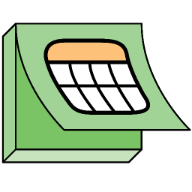
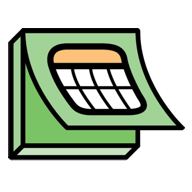
React helmet (#348)
* Updated all images

* Added React Helmet to update title and descriptions dynamically

* Added title changes to edit pages as well

diff --git a/client/src/app.js b/client/src/app.js
@@ -1,5 +1,6 @@
 import React, { useEffect, useState } from 'react';
 import { BrowserRouter, Route, Switch } from 'react-router-dom';
+import { Helmet } from 'react-helmet';
 import { createTheme, ThemeProvider } from '@material-ui/core';
 import Cookies from 'universal-cookie';
 import DayjsUtils from '@date-io/dayjs';
@@ -69,6 +70,25 @@ const App = () => {
 
     return (
         <ThemeProvider theme={theme}>
+            <Helmet>
+                <meta charset="utf-8" />
+                <link rel="icon" href="%PUBLIC_URL%/favicon.ico?v=3" />
+                <meta name="viewport" content="width=device-width, initial-scale=1" />
+                <meta name="theme-color" content="#00c853" />
+                <meta
+                    name="description"
+                    content="The TAMS Club Calendar is a fully contained event tracker, club/volunteering database, and general resource center. This is the unofficial club event calendar for the Texas Academy of Mathematics and Science!"
+                />
+                <meta property="og:title" content="TAMS Club Calendar" />
+                <meta property="og:type" content="website" />
+                <meta property="og:url" content="https://tams.club/" />
+                <meta property="og:image" content="%PUBLIC_URL%/social-cover.webp" />
+                <meta property="og:image:width" content="1200" />
+                <meta property="og:image:height" content="630" />
+                <link rel="apple-touch-icon" href="%PUBLIC_URL%/android-chrome-192x192.png" />
+                <link rel="manifest" href="%PUBLIC_URL%/manifest.json" />
+                <title>TAMS Club Calendar</title>
+            </Helmet>
             <CssBaseline />
             <MuiPickersUtilsProvider utils={DayjsUtils}>
                 <BrowserRouter>

diff --git a/client/src/components/volunteering/volunteering-display.js b/client/src/components/volunteering/volunteering-display.js
@@ -19,6 +19,7 @@ import Loading from '../shared/loading';
 import FilterList from './filter-list';
 import Paragraph from '../shared/paragraph';
 import AddButton from '../shared/add-button';
+import { Helmet } from 'react-helmet';
 
 const useStyles = makeStyles((theme) => ({
     root: {
@@ -112,7 +113,16 @@ const EventDisplay = (props) => {
                 )
             ) : (
                 <Container className={classes.root}>
-                    <AddButton color="secondary" label="Volunteering" path={`/edit/volunteering?id=${volunteering.id}`} edit />
+                    <Helmet>
+                        <title>{`${volunteering.name} | Volunteering - TAMS Club Calendar`}</title>
+                        <meta name="description" content={volunteering.description} />
+                    </Helmet>
+                    <AddButton
+                        color="secondary"
+                        label="Volunteering"
+                        path={`/edit/volunteering?id=${volunteering.id}`}
+                        edit
+                    />
                     <Card>
                         <CardContent>
                             <Box className={classes.container}>

diff --git a/client/public/index.html b/client/public/index.html
@@ -2,20 +2,6 @@
 <html lang="en">
 
     <head>
-        <meta charset="utf-8" />
-        <link rel="icon" href="%PUBLIC_URL%/favicon.ico?v=2" />
-        <meta name="viewport" content="width=device-width, initial-scale=1" />
-        <meta name="theme-color" content="#00CD2D" />
-        <meta name="description"
-            content="This is a website that lists all TAMS club events in a simple calendar, as well as a resource for student life info!" />
-        <meta property="og:title" content="TAMS Club Calendar" />
-        <meta property="og:type" content="website" />
-        <meta property="og:url" content="https://tams.club/" />
-        <meta property="og:image" content="https://tams.club/android-chrome-512x512.png" />
-        <link rel="apple-touch-icon" href="%PUBLIC_URL%/apple-touch-icon.png" />
-        <link rel="manifest" href="%PUBLIC_URL%/manifest.json" />
-        <title>TAMS Club Calendar</title>
-
         <link rel="preconnect" href="https://fonts.gstatic.com">
         <link
             href="https://fonts.googleapis.com/css2?family=Roboto:wght@100;300;400;500;700&family=Bubblegum+Sans&family=Roboto+Mono:wght@500&display=swap"

diff --git a/client/src/components/home/event-display.js b/client/src/components/home/event-display.js
@@ -1,6 +1,6 @@
 import React, { useEffect, useState } from 'react';
 import { useHistory } from 'react-router';
-import { useSelector } from 'react-redux';
+import { Helmet } from 'react-helmet';
 import { makeStyles } from '@material-ui/core/styles';
 import { capitalize } from '@material-ui/core';
 import { darkSwitch, darkSwitchGrey, formatEventDate, formatEventTime, getParams } from '../../functions/util';
@@ -122,6 +122,10 @@ const EventDisplay = (props) => {
                 )
             ) : (
                 <Container className={classes.root}>
+                    <Helmet>
+                        <title>{`${event.name} | Events - TAMS Club Calendar`}</title>
+                        <meta name="description" content={event.description} />
+                    </Helmet>
                     <AddButton color="secondary" label="Event" path={`/edit/events?id=${event.id}`} edit />
                     <Card>
                         <CardContent>

diff --git a/client/src/components/clubs/club-display.js b/client/src/components/clubs/club-display.js
@@ -1,6 +1,7 @@
 import React, { useEffect, useState } from 'react';
 import { useHistory } from 'react-router';
 import { useSelector } from 'react-redux';
+import { Helmet } from 'react-helmet';
 import { makeStyles } from '@material-ui/core';
 import { getSavedClubList } from '../../redux/selectors';
 import { getClub } from '../../functions/api';
@@ -148,6 +149,10 @@ const ClubDisplay = (props) => {
                 )
             ) : (
                 <Container className={classes.root}>
+                    <Helmet>
+                        <title>{`${club.name} | Clubs - TAMS Club Calendar`}</title>
+                        <meta name="description" content={club.description} />
+                    </Helmet>
                     <AddButton color="secondary" label="Club" path={`/edit/clubs?id=${club.id}`} edit />
                     <Card>
                         <CardMedia className={classes.imageWrapper}>

diff --git a/client/src/components/home/reservation/reservation-display.js b/client/src/components/home/reservation/reservation-display.js
@@ -1,5 +1,6 @@
 import React, { useEffect, useState } from 'react';
 import { useHistory } from 'react-router';
+import { Helmet } from 'react-helmet';
 import { makeStyles } from '@material-ui/core/styles';
 import dayjs from 'dayjs';
 import { darkSwitchGrey, formatEventDate, formatEventTime, getParams } from '../../../functions/util';
@@ -120,6 +121,10 @@ const ReservationDisplay = () => {
                 )
             ) : (
                 <Container className={classes.root}>
+                    <Helmet>
+                        <title>{`${reservation.name} | Reservations - TAMS Club Calendar`}</title>
+                        <meta name="description" content={reservation.description} />
+                    </Helmet>
                     <AddButton
                         color="secondary"
                         label={reservation.eventId ? 'Event' : 'Reservation'}

diff --git a/client/src/components/edit/edit-volunteering.js b/client/src/components/edit/edit-volunteering.js
@@ -1,6 +1,7 @@
 import React, { useEffect, useState } from 'react';
 import { useDispatch } from 'react-redux';
 import { makeStyles } from '@material-ui/core';
+import { Helmet } from 'react-helmet';
 import { useForm } from 'react-hook-form';
 import Cookies from 'universal-cookie';
 import { openPopup } from '../../redux/actions';
@@ -117,6 +118,9 @@ const EditVolunteering = () => {
         <Loading flat />
     ) : (
         <React.Fragment>
+            <Helmet>
+                <title>{`${id ? 'Edit' : 'Add'} Volunteering - TAMS Club Calendar`}</title>
+            </Helmet>
             <UploadBackdrop open={backdrop} />
             <Typography variant="h1" className={classes.title}>
                 {id ? 'Edit Volunteering' : 'Add Volunteering'}

diff --git a/client/src/components/edit/edit-reservations.js b/client/src/components/edit/edit-reservations.js
@@ -1,6 +1,7 @@
 import React, { useEffect, useState } from 'react';
 import { useDispatch } from 'react-redux';
 import { makeStyles } from '@material-ui/core';
+import { Helmet } from 'react-helmet';
 import { useForm } from 'react-hook-form';
 import dayjs from 'dayjs';
 import isSameOrBefore from 'dayjs/plugin/isSameOrBefore';
@@ -211,6 +212,9 @@ const EditReservations = () => {
         <Loading flat />
     ) : (
         <React.Fragment>
+            <Helmet>
+                <title>{`${id ? 'Edit' : 'Add'} Reservation - TAMS Club Calendar`}</title>
+            </Helmet>
             <UploadBackdrop open={backdrop} />
             <Typography variant="h1" className={classes.title}>
                 {id ? 'Edit Reservation' : 'Add Reservation'}

diff --git a/client/src/components/edit/edit-clubs.js b/client/src/components/edit/edit-clubs.js
@@ -1,6 +1,7 @@
 import React, { useEffect, useState } from 'react';
 import { useDispatch } from 'react-redux';
 import { makeStyles } from '@material-ui/core';
+import { Helmet } from 'react-helmet';
 import { useForm } from 'react-hook-form';
 import Cookies from 'universal-cookie';
 import { openPopup } from '../../redux/actions';
@@ -151,6 +152,9 @@ const EditClubs = () => {
         <Loading flat />
     ) : (
         <React.Fragment>
+            <Helmet>
+                <title>{`${id ? 'Edit' : 'Add'} Club - TAMS Club Calendar`}</title>
+            </Helmet>
             <UploadBackdrop open={backdrop} />
             <Typography variant="h1" className={classes.title}>
                 {id ? 'Edit Club' : 'Add Club'}

diff --git a/client/src/components/edit/edit.js b/client/src/components/edit/edit.js
@@ -1,5 +1,6 @@
 import React, { useEffect } from 'react';
 import { BrowserRouter, Route, Switch, useLocation } from 'react-router-dom';
+import { Helmet } from 'react-helmet';
 import { makeStyles } from '@material-ui/core';
 import Cookies from 'universal-cookie';
 import { redirect } from '../../functions/util';
@@ -50,6 +51,9 @@ const Edit = () => {
         <PageWrapper className={classes.root}>
             <Container>
                 <Paper className={classes.paper}>
+                    <Helmet>
+                        <title>Edit Resources - TAMS Club Calendar</title>
+                    </Helmet>
                     <EditLogin />
                     <BrowserRouter>
                         <Switch>

diff --git a/client/src/components/edit/edit-events.js b/client/src/components/edit/edit-events.js
@@ -1,6 +1,7 @@
 import React, { useEffect, useState } from 'react';
 import { useDispatch } from 'react-redux';
 import { makeStyles } from '@material-ui/core';
+import { Helmet } from 'react-helmet';
 import { useForm } from 'react-hook-form';
 import Cookies from 'universal-cookie';
 import dayjs from 'dayjs';
@@ -166,6 +167,9 @@ const EditEvents = () => {
         <Loading flat />
     ) : (
         <React.Fragment>
+            <Helmet>
+                <title>{`${id ? 'Edit' : 'Add'} Event - TAMS Club Calendar`}</title>
+            </Helmet>
             <UploadBackdrop open={backdrop} />
             <Typography variant="h1" className={classes.title}>
                 {id ? 'Edit Event' : 'Add Event'}

diff --git a/client/src/components/about/about.js b/client/src/components/about/about.js
@@ -1,5 +1,6 @@
 import React, { useState } from 'react';
 import { makeStyles } from '@material-ui/core';
+import { Helmet } from 'react-helmet';
 import { postFeedback } from '../../functions/api';
 
 import Container from '@material-ui/core/Container';
@@ -77,6 +78,9 @@ const About = () => {
 
     return (
         <Container className={classes.root}>
+            <Helmet>
+                <title>About - TAMS Club Calendar</title>
+            </Helmet>
             <Image src="/logo-banner.png" alt="TAMS Club Calendar" className={classes.image} transparent></Image>
             <Paragraph text={data.aboutText} fontSize="1.1rem" />
             <Typography variant="h2" className={classes.center}>
